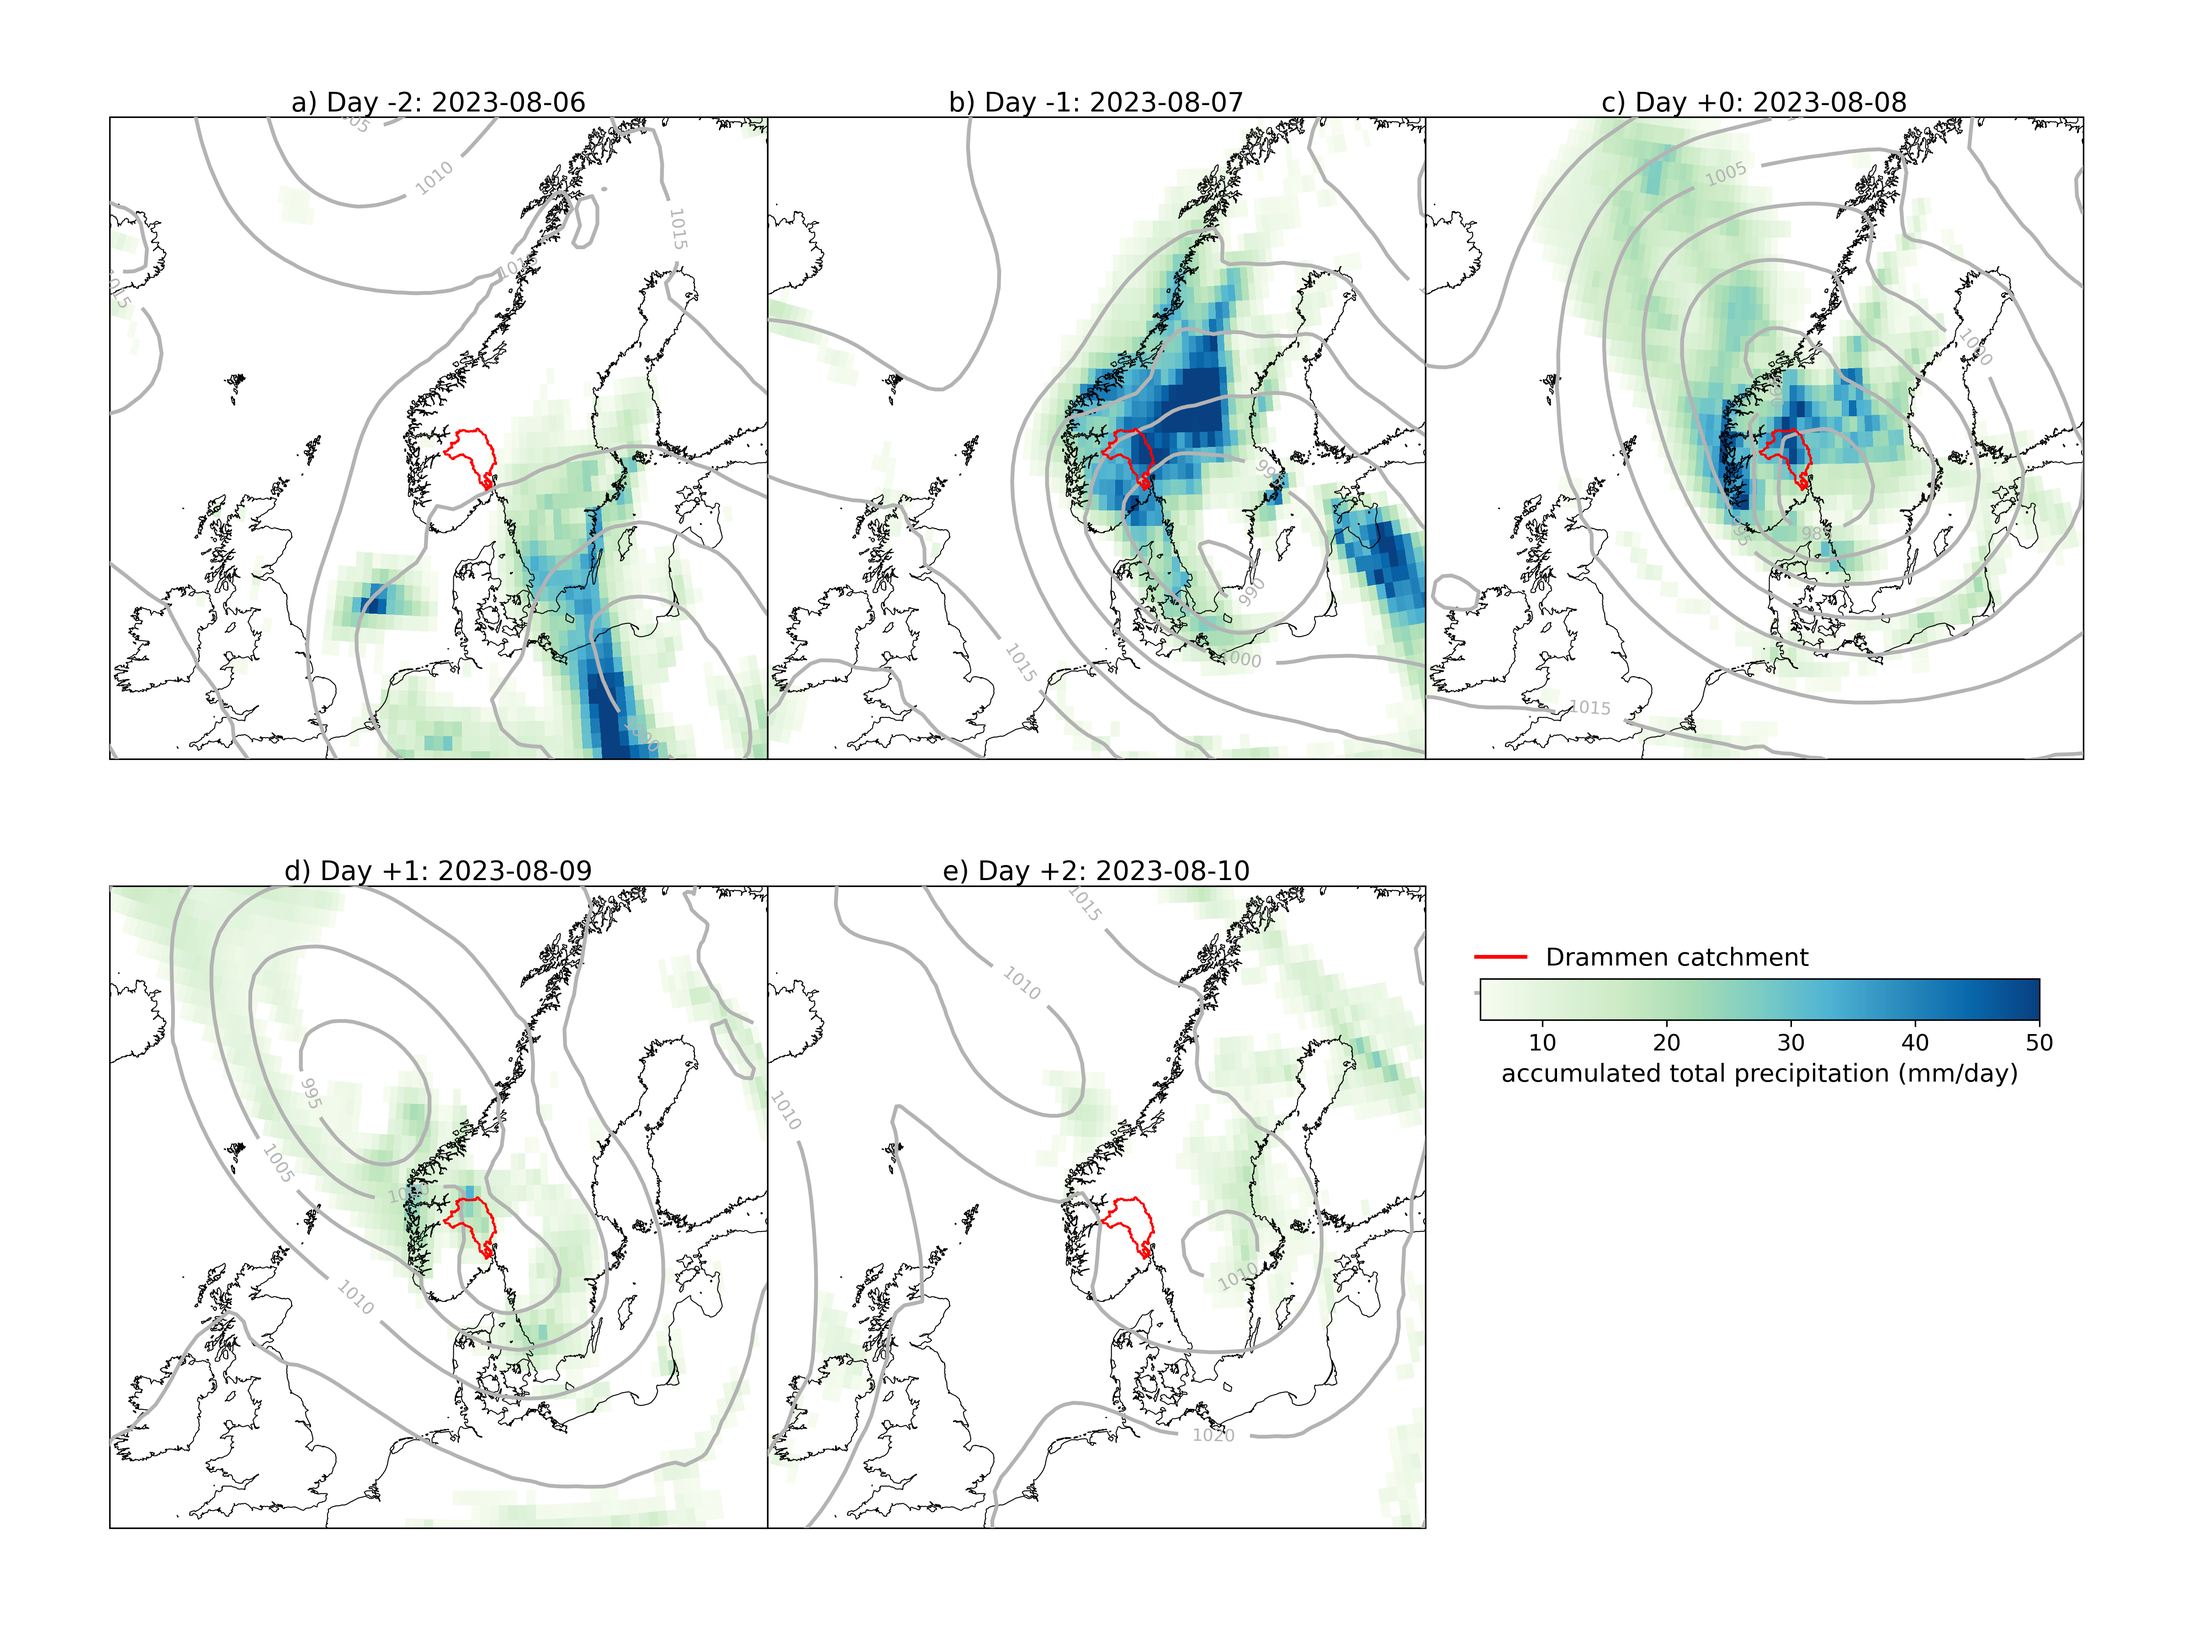
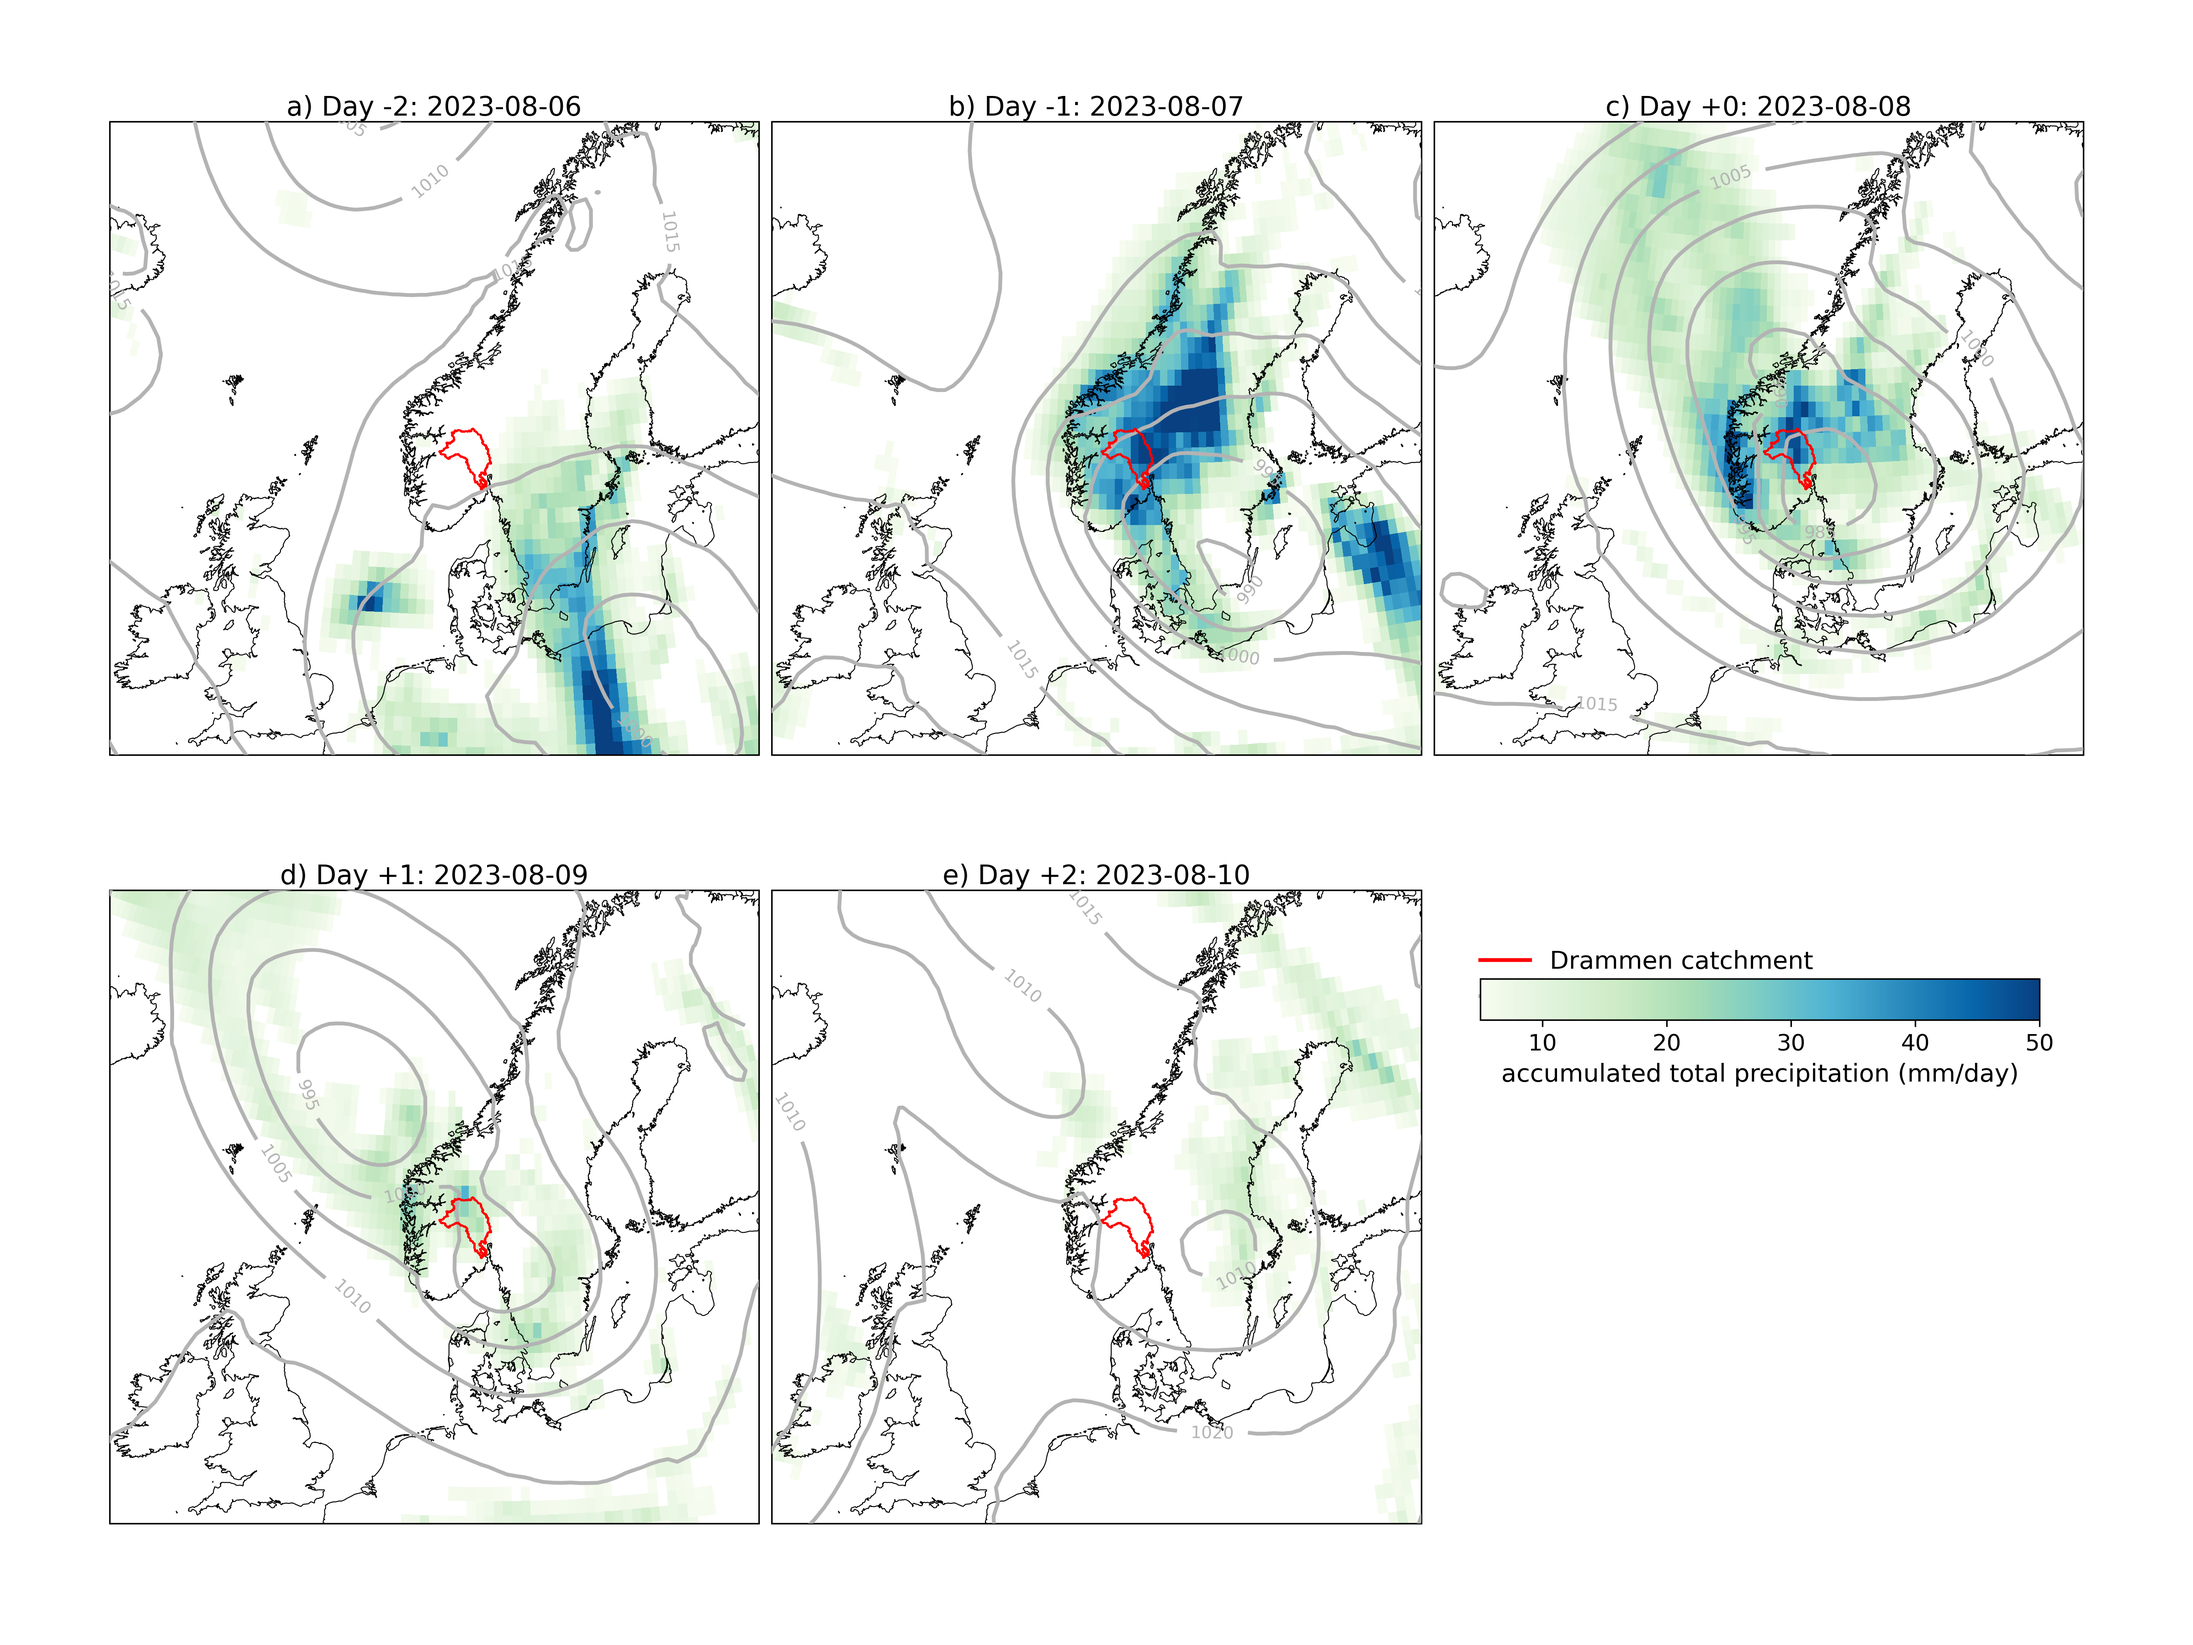
update

diff --git a/code/plot/paper_figs/plot-xy-evolution-storm-hans-tp-msl-era5.py b/code/plot/paper_figs/plot-xy-evolution-storm-hans-tp-msl-era5.py
@@ -82,7 +82,7 @@ write2file = True
 FIG_WIDTH_IN = 16
 FIG_HEIGHT_IN = 12
 
-MAP_WSPACE = 0.0
+MAP_WSPACE = 0.02
 MAP_HSPACE = 0.08
 
 tick_labelsize = 12
